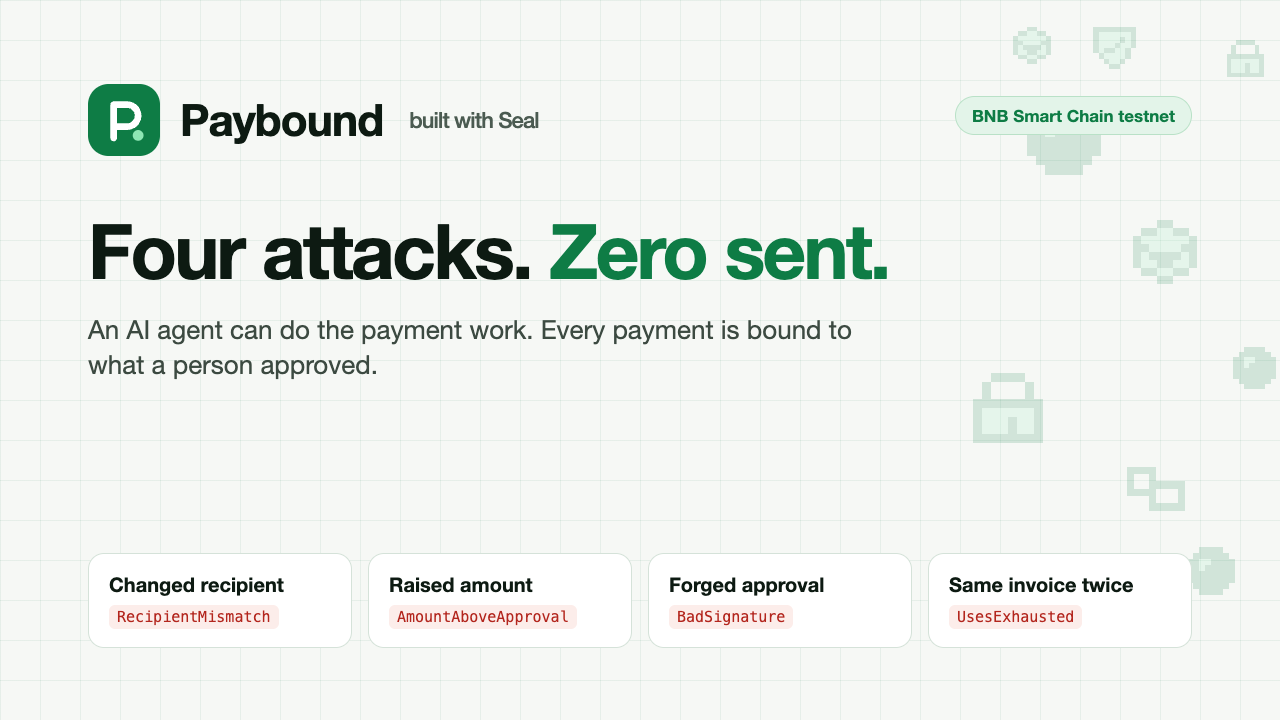
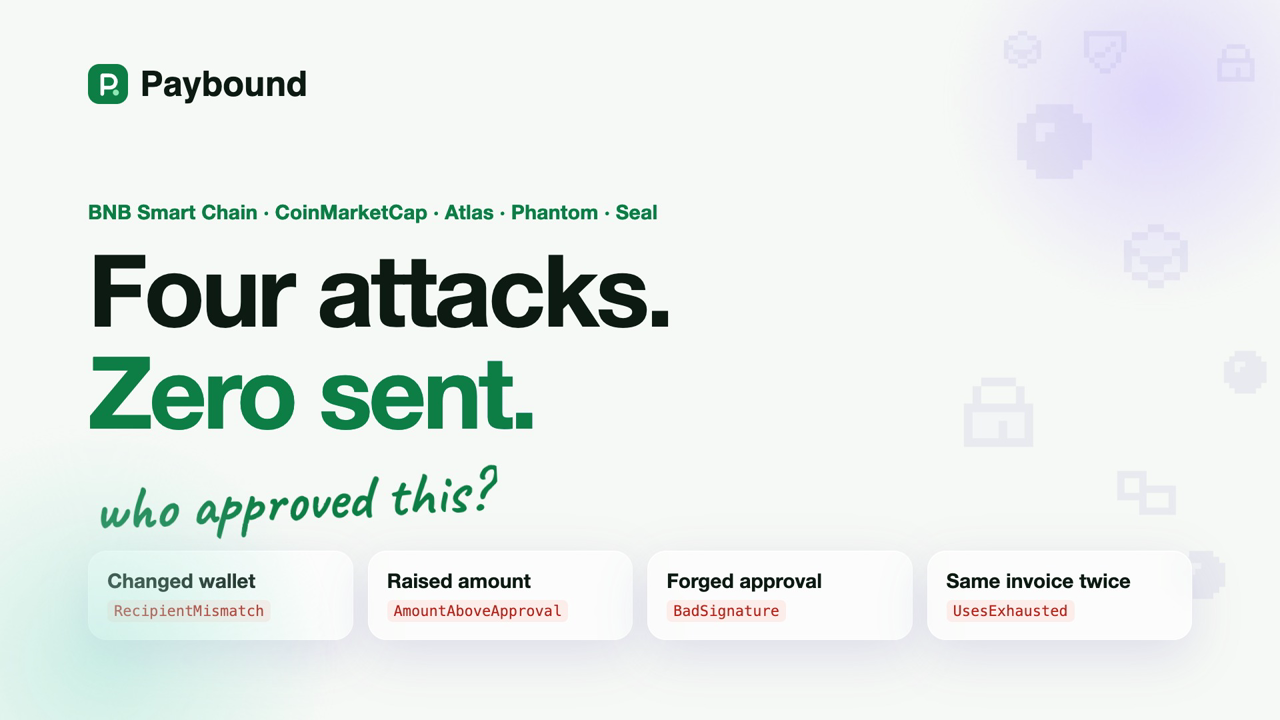
README: new cover, package names, wording

diff --git a/README.md b/README.md
@@ -14,7 +14,7 @@
 
 
 
-By Aqta, the team behind Seal: security for AI agents that act. Paybound is a working developer reference implementation for AI payment agents with human-approved spending on BNB Chain: testnet only, not audited, not a production payment product. The code and packages still use the working name Spend Guard (`SpendGuardVault`, `paybound`).
+By Aqta, the team behind Seal: security for AI agents that act. Paybound is a working developer reference implementation for AI payment agents with human-approved spending on BNB Chain: testnet only, not audited, not a production payment product. The vault contract is `SpendGuardVault`; the client packages are `paybound` (`pip install paybound`).
 It runs on BNB Smart Chain testnet. It deploys only an open-mint test token (Test USD) for testnet. There is no project token.
 
 An AI agent that pays invoices can be tricked. A message says "the supplier's wallet changed,
@@ -32,7 +32,7 @@ Four attacks. Zero sent. Run on 27 November 2026; the full run is in [`evidence/
 |---|---|
 | Changed recipient: the agent asked to pay an attacker wallet. Refused: `RecipientMismatch`, nothing moved | [0x12fe98c5…](https://testnet.bscscan.com/tx/0x12fe98c57fec81b356f3eabcbae99c3307935c3e77dbf93bde084765f19e41a2) |
 | 3,900 asked for against an approval of up to 3,400. Refused: `AmountAboveApproval` | [0x80e8d761…](https://testnet.bscscan.com/tx/0x80e8d7613e0d37d3e62ed24f6e3a7ec7f39ce5c5b30f274210e9a0c072eed9d3) |
-| An approval forged with the agent's stolen key. Refused: `BadSignature` | [0xf4388989…](https://testnet.bscscan.com/tx/0xf4388989cb388e9f3e5d1ff7dc71cfd7fd76d23a1b59a2c786e101d30692260f) |
+| An approval forged with the agent's key (simulated theft). Refused: `BadSignature` | [0xf4388989…](https://testnet.bscscan.com/tx/0xf4388989cb388e9f3e5d1ff7dc71cfd7fd76d23a1b59a2c786e101d30692260f) |
 | The real invoice: the approved supplier was paid 3,400 test dollars, once | [0xa24e2be0…](https://testnet.bscscan.com/tx/0xa24e2be0859a465e1b943af9527ce166c1296a67ba2d48a9c2f685a4d6d42794) |
 | The same invoice asked for again. Refused: `UsesExhausted` | [0xf0d84267…](https://testnet.bscscan.com/tx/0xf0d8426719cabe99e0d19cdaaa196355f9d3873a226fb528012c187bec5ba584) |
 
